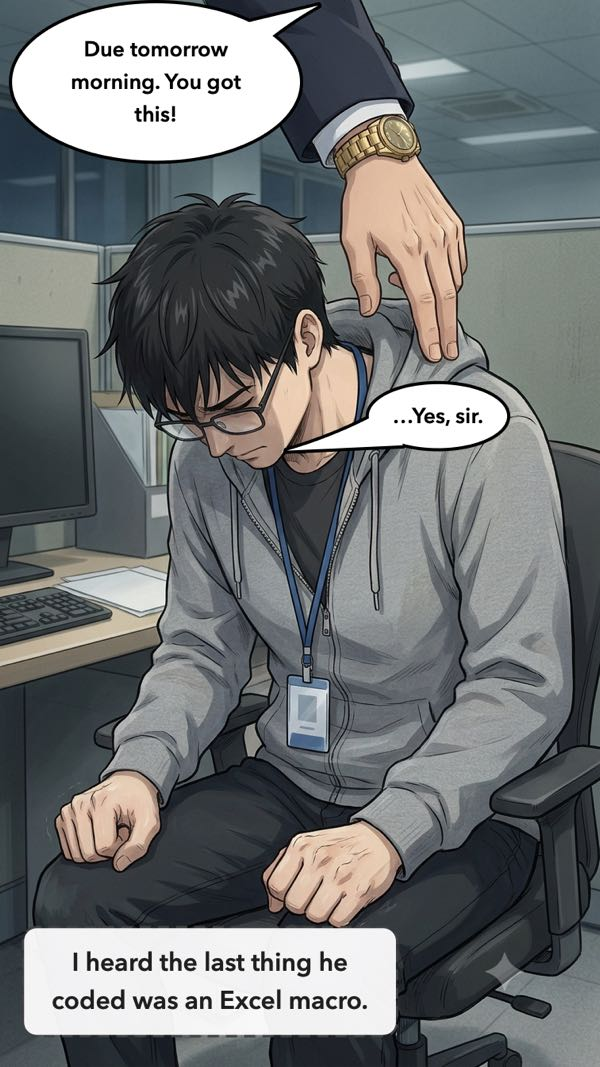
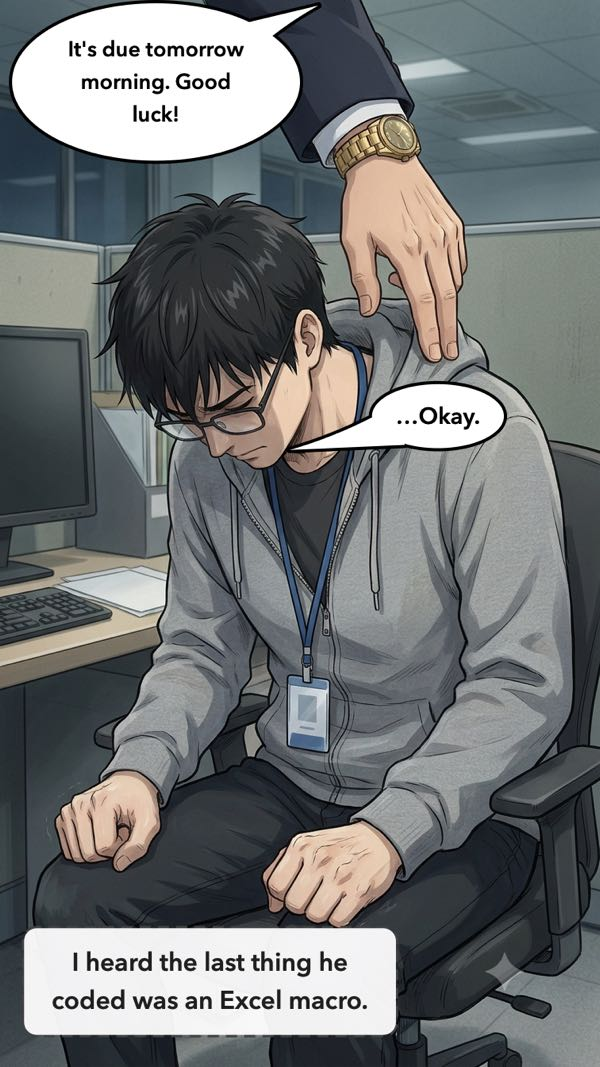
데모 만화 영어판: 컷 04-3 대사

diff --git a/demo/en/scroll.html b/demo/en/scroll.html
@@ -1,4 +1,4 @@
 <!doctype html><html lang="en"><meta charset="utf-8"><title>Developer Isekai, Episode 1 (Demo)</title><meta name="viewport" content="width=device-width,initial-scale=1"><meta name="robots" content="noindex">
 <style>body{margin:0;background:#0b0c10;color:#eee;font-family:-apple-system,system-ui,sans-serif}
 a{color:#8ab4ff}.wrap{max-width:756px;margin:0 auto}img{display:block;width:100%;height:auto}
-.top{padding:14px 16px;font-size:14px;line-height:1.5}.top b{font-size:16px}.langs{margin-bottom:8px}</style><body><div class="wrap"><div class="top"><nav class="langs"><a href="../ja/scroll.html">日本語</a> · <b>English</b> · <a href="../de/scroll.html">Deutsch</a> · <a href="../ko/scroll.html">한국어</a></nav><b>Developer Isekai, Episode 1 (Demo)</b><br>A demo for trying Hearbook’s web comic translation. Story by Hearbook; art made with AI.<br><a href="paged.html">Page-by-page demo (Space Cat Patrol)</a></div><img src="isekai/cut01.jpg?v=5" width="600" height="1067" alt="Developer Isekai, Episode 1 (Demo) 1"><img src="isekai/cut02.jpg?v=5" width="600" height="1067" alt="Developer Isekai, Episode 1 (Demo) 2"><img src="isekai/cut03.jpg?v=5" width="600" height="1067" alt="Developer Isekai, Episode 1 (Demo) 3"><img src="isekai/cut03-1.jpg?v=5" width="600" height="1067" alt="Developer Isekai, Episode 1 (Demo) 4"><img src="isekai/cut03-2.jpg?v=5" width="600" height="476" alt="Developer Isekai, Episode 1 (Demo) 5"><img src="isekai/cut04.jpg?v=5" width="600" height="1067" alt="Developer Isekai, Episode 1 (Demo) 6"><img src="isekai/cut04-1.jpg?v=5" width="600" height="1067" alt="Developer Isekai, Episode 1 (Demo) 7"><img src="isekai/cut04-2.jpg?v=5" width="600" height="1067" alt="Developer Isekai, Episode 1 (Demo) 8"><img src="isekai/cut04-3.jpg?v=5" width="600" height="1067" alt="Developer Isekai, Episode 1 (Demo) 9"><img src="isekai/cut05.jpg?v=5" width="600" height="476" alt="Developer Isekai, Episode 1 (Demo) 10"><img src="isekai/cut06.jpg?v=5" width="600" height="1067" alt="Developer Isekai, Episode 1 (Demo) 11"><img src="isekai/cut07.jpg?v=5" width="600" height="294" alt="Developer Isekai, Episode 1 (Demo) 12" style="margin-bottom:220px"><img src="isekai/cut08.jpg?v=5" width="600" height="1067" alt="Developer Isekai, Episode 1 (Demo) 13"><img src="isekai/cut09.jpg?v=5" width="600" height="1067" alt="Developer Isekai, Episode 1 (Demo) 14"><img src="isekai/cut10.jpg?v=5" width="600" height="1067" alt="Developer Isekai, Episode 1 (Demo) 15"><img src="isekai/cut11.jpg?v=5" width="600" height="1067" alt="Developer Isekai, Episode 1 (Demo) 16"><img src="isekai/cut12.jpg?v=5" width="600" height="294" alt="Developer Isekai, Episode 1 (Demo) 17" style="margin-bottom:220px"><img src="isekai/cut13.jpg?v=5" width="600" height="1067" alt="Developer Isekai, Episode 1 (Demo) 18"><img src="isekai/cut14.jpg?v=5" width="600" height="1067" alt="Developer Isekai, Episode 1 (Demo) 19"><img src="isekai/cut15.jpg?v=5" width="600" height="1067" alt="Developer Isekai, Episode 1 (Demo) 20"><img src="isekai/cut16.jpg?v=5" width="600" height="1067" alt="Developer Isekai, Episode 1 (Demo) 21"><img src="isekai/cut17.jpg?v=5" width="600" height="1067" alt="Developer Isekai, Episode 1 (Demo) 22"><img src="isekai/cut18.jpg?v=5" width="600" height="1067" alt="Developer Isekai, Episode 1 (Demo) 23"><img src="isekai/cut19.jpg?v=5" width="600" height="1067" alt="Developer Isekai, Episode 1 (Demo) 24"><img src="isekai/cut20.jpg?v=5" width="600" height="1067" alt="Developer Isekai, Episode 1 (Demo) 25"><img src="isekai/cut21.jpg?v=5" width="600" height="1067" alt="Developer Isekai, Episode 1 (Demo) 26"><img src="isekai/cut22.jpg?v=5" width="600" height="294" alt="Developer Isekai, Episode 1 (Demo) 27"><img src="isekai/cut23.jpg?v=5" width="600" height="1067" alt="Developer Isekai, Episode 1 (Demo) 28"><img src="isekai/cut24.jpg?v=5" width="600" height="1067" alt="Developer Isekai, Episode 1 (Demo) 29"><img src="isekai/cut25.jpg?v=5" width="600" height="841" alt="Developer Isekai, Episode 1 (Demo) 30"><img src="isekai/cut26.jpg?v=5" width="600" height="1067" alt="Developer Isekai, Episode 1 (Demo) 31"><img src="isekai/cut27.jpg?v=5" width="600" height="1067" alt="Developer Isekai, Episode 1 (Demo) 32"><img src="isekai/cut28.jpg?v=5" width="600" height="1067" alt="Developer Isekai, Episode 1 (Demo) 33"><img src="isekai/cut29.jpg?v=5" width="600" height="1067" alt="Developer Isekai, Episode 1 (Demo) 34"><img src="isekai/cut30.jpg?v=5" width="600" height="1067" alt="Developer Isekai, Episode 1 (Demo) 35"><img src="isekai/cut31.jpg?v=5" width="600" height="1067" alt="Developer Isekai, Episode 1 (Demo) 36"><img src="isekai/cut32.jpg?v=5" width="600" height="1067" alt="Developer Isekai, Episode 1 (Demo) 37"><img src="isekai/cut33.jpg?v=5" width="600" height="1067" alt="Developer Isekai, Episode 1 (Demo) 38"><img src="isekai/cut34.jpg?v=5" width="600" height="1067" alt="Developer Isekai, Episode 1 (Demo) 39"><img src="isekai/cut35.jpg?v=5" width="600" height="1067" alt="Developer Isekai, Episode 1 (Demo) 40"><img src="isekai/cut36.jpg?v=5" width="600" height="476" alt="Developer Isekai, Episode 1 (Demo) 41"><img src="isekai/cut37.jpg?v=5" width="600" height="1067" alt="Developer Isekai, Episode 1 (Demo) 42"><img src="isekai/cut38.jpg?v=5" width="600" height="294" alt="Developer Isekai, Episode 1 (Demo) 43" style="margin-bottom:220px"><img src="isekai/cut39.jpg?v=5" width="600" height="1067" alt="Developer Isekai, Episode 1 (Demo) 44"><img src="isekai/cut40.jpg?v=5" width="600" height="294" alt="Developer Isekai, Episode 1 (Demo) 45"><img src="isekai/cut41.jpg?v=5" width="600" height="1067" alt="Developer Isekai, Episode 1 (Demo) 46"><img src="isekai/cut42.jpg?v=5" width="600" height="294" alt="Developer Isekai, Episode 1 (Demo) 47"><img src="isekai/cut43.jpg?v=5" width="600" height="1067" alt="Developer Isekai, Episode 1 (Demo) 48"><img src="isekai/cut44.jpg?v=5" width="600" height="1067" alt="Developer Isekai, Episode 1 (Demo) 49"><img src="isekai/cut45.jpg?v=5" width="600" height="1067" alt="Developer Isekai, Episode 1 (Demo) 50"><img src="isekai/cut46.jpg?v=5" width="600" height="294" alt="Developer Isekai, Episode 1 (Demo) 51"><img src="isekai/cut47.jpg?v=5" width="600" height="1067" alt="Developer Isekai, Episode 1 (Demo) 52" style="margin-bottom:220px"><img src="isekai/cut48.jpg?v=5" width="600" height="1067" alt="Developer Isekai, Episode 1 (Demo) 53"><img src="isekai/cut49.jpg?v=5" width="600" height="1067" alt="Developer Isekai, Episode 1 (Demo) 54"><img src="isekai/cut50.jpg?v=5" width="600" height="294" alt="Developer Isekai, Episode 1 (Demo) 55"><img src="isekai/cut51.jpg?v=5" width="600" height="1067" alt="Developer Isekai, Episode 1 (Demo) 56"><img src="isekai/cut52.jpg?v=5" width="600" height="1067" alt="Developer Isekai, Episode 1 (Demo) 57"><img src="isekai/cut53.jpg?v=5" width="600" height="1067" alt="Developer Isekai, Episode 1 (Demo) 58"><img src="isekai/cut54.jpg?v=5" width="600" height="1067" alt="Developer Isekai, Episode 1 (Demo) 59"><img src="isekai/cut55.jpg?v=5" width="600" height="294" alt="Developer Isekai, Episode 1 (Demo) 60"><img src="isekai/cut55-1.jpg?v=5" width="600" height="294" alt="Developer Isekai, Episode 1 (Demo) 61"><img src="isekai/cut56.jpg?v=5" width="600" height="1067" alt="Developer Isekai, Episode 1 (Demo) 62" style="margin-bottom:220px"></div></body></html>
+.top{padding:14px 16px;font-size:14px;line-height:1.5}.top b{font-size:16px}.langs{margin-bottom:8px}</style><body><div class="wrap"><div class="top"><nav class="langs"><a href="../ja/scroll.html">日本語</a> · <b>English</b> · <a href="../de/scroll.html">Deutsch</a> · <a href="../ko/scroll.html">한국어</a></nav><b>Developer Isekai, Episode 1 (Demo)</b><br>A demo for trying Hearbook’s web comic translation. Story by Hearbook; art made with AI.<br><a href="paged.html">Page-by-page demo (Space Cat Patrol)</a></div><img src="isekai/cut01.jpg?v=5" width="600" height="1067" alt="Developer Isekai, Episode 1 (Demo) 1"><img src="isekai/cut02.jpg?v=5" width="600" height="1067" alt="Developer Isekai, Episode 1 (Demo) 2"><img src="isekai/cut03.jpg?v=5" width="600" height="1067" alt="Developer Isekai, Episode 1 (Demo) 3"><img src="isekai/cut03-1.jpg?v=5" width="600" height="1067" alt="Developer Isekai, Episode 1 (Demo) 4"><img src="isekai/cut03-2.jpg?v=5" width="600" height="476" alt="Developer Isekai, Episode 1 (Demo) 5"><img src="isekai/cut04.jpg?v=5" width="600" height="1067" alt="Developer Isekai, Episode 1 (Demo) 6"><img src="isekai/cut04-1.jpg?v=5" width="600" height="1067" alt="Developer Isekai, Episode 1 (Demo) 7"><img src="isekai/cut04-2.jpg?v=5" width="600" height="1067" alt="Developer Isekai, Episode 1 (Demo) 8"><img src="isekai/cut04-3.jpg?v=6" width="600" height="1067" alt="Developer Isekai, Episode 1 (Demo) 9"><img src="isekai/cut05.jpg?v=5" width="600" height="476" alt="Developer Isekai, Episode 1 (Demo) 10"><img src="isekai/cut06.jpg?v=5" width="600" height="1067" alt="Developer Isekai, Episode 1 (Demo) 11"><img src="isekai/cut07.jpg?v=5" width="600" height="294" alt="Developer Isekai, Episode 1 (Demo) 12" style="margin-bottom:220px"><img src="isekai/cut08.jpg?v=5" width="600" height="1067" alt="Developer Isekai, Episode 1 (Demo) 13"><img src="isekai/cut09.jpg?v=5" width="600" height="1067" alt="Developer Isekai, Episode 1 (Demo) 14"><img src="isekai/cut10.jpg?v=5" width="600" height="1067" alt="Developer Isekai, Episode 1 (Demo) 15"><img src="isekai/cut11.jpg?v=5" width="600" height="1067" alt="Developer Isekai, Episode 1 (Demo) 16"><img src="isekai/cut12.jpg?v=5" width="600" height="294" alt="Developer Isekai, Episode 1 (Demo) 17" style="margin-bottom:220px"><img src="isekai/cut13.jpg?v=5" width="600" height="1067" alt="Developer Isekai, Episode 1 (Demo) 18"><img src="isekai/cut14.jpg?v=5" width="600" height="1067" alt="Developer Isekai, Episode 1 (Demo) 19"><img src="isekai/cut15.jpg?v=5" width="600" height="1067" alt="Developer Isekai, Episode 1 (Demo) 20"><img src="isekai/cut16.jpg?v=5" width="600" height="1067" alt="Developer Isekai, Episode 1 (Demo) 21"><img src="isekai/cut17.jpg?v=5" width="600" height="1067" alt="Developer Isekai, Episode 1 (Demo) 22"><img src="isekai/cut18.jpg?v=5" width="600" height="1067" alt="Developer Isekai, Episode 1 (Demo) 23"><img src="isekai/cut19.jpg?v=5" width="600" height="1067" alt="Developer Isekai, Episode 1 (Demo) 24"><img src="isekai/cut20.jpg?v=5" width="600" height="1067" alt="Developer Isekai, Episode 1 (Demo) 25"><img src="isekai/cut21.jpg?v=5" width="600" height="1067" alt="Developer Isekai, Episode 1 (Demo) 26"><img src="isekai/cut22.jpg?v=5" width="600" height="294" alt="Developer Isekai, Episode 1 (Demo) 27"><img src="isekai/cut23.jpg?v=5" width="600" height="1067" alt="Developer Isekai, Episode 1 (Demo) 28"><img src="isekai/cut24.jpg?v=5" width="600" height="1067" alt="Developer Isekai, Episode 1 (Demo) 29"><img src="isekai/cut25.jpg?v=5" width="600" height="841" alt="Developer Isekai, Episode 1 (Demo) 30"><img src="isekai/cut26.jpg?v=5" width="600" height="1067" alt="Developer Isekai, Episode 1 (Demo) 31"><img src="isekai/cut27.jpg?v=5" width="600" height="1067" alt="Developer Isekai, Episode 1 (Demo) 32"><img src="isekai/cut28.jpg?v=5" width="600" height="1067" alt="Developer Isekai, Episode 1 (Demo) 33"><img src="isekai/cut29.jpg?v=5" width="600" height="1067" alt="Developer Isekai, Episode 1 (Demo) 34"><img src="isekai/cut30.jpg?v=5" width="600" height="1067" alt="Developer Isekai, Episode 1 (Demo) 35"><img src="isekai/cut31.jpg?v=5" width="600" height="1067" alt="Developer Isekai, Episode 1 (Demo) 36"><img src="isekai/cut32.jpg?v=5" width="600" height="1067" alt="Developer Isekai, Episode 1 (Demo) 37"><img src="isekai/cut33.jpg?v=5" width="600" height="1067" alt="Developer Isekai, Episode 1 (Demo) 38"><img src="isekai/cut34.jpg?v=5" width="600" height="1067" alt="Developer Isekai, Episode 1 (Demo) 39"><img src="isekai/cut35.jpg?v=5" width="600" height="1067" alt="Developer Isekai, Episode 1 (Demo) 40"><img src="isekai/cut36.jpg?v=5" width="600" height="476" alt="Developer Isekai, Episode 1 (Demo) 41"><img src="isekai/cut37.jpg?v=5" width="600" height="1067" alt="Developer Isekai, Episode 1 (Demo) 42"><img src="isekai/cut38.jpg?v=5" width="600" height="294" alt="Developer Isekai, Episode 1 (Demo) 43" style="margin-bottom:220px"><img src="isekai/cut39.jpg?v=5" width="600" height="1067" alt="Developer Isekai, Episode 1 (Demo) 44"><img src="isekai/cut40.jpg?v=5" width="600" height="294" alt="Developer Isekai, Episode 1 (Demo) 45"><img src="isekai/cut41.jpg?v=5" width="600" height="1067" alt="Developer Isekai, Episode 1 (Demo) 46"><img src="isekai/cut42.jpg?v=5" width="600" height="294" alt="Developer Isekai, Episode 1 (Demo) 47"><img src="isekai/cut43.jpg?v=5" width="600" height="1067" alt="Developer Isekai, Episode 1 (Demo) 48"><img src="isekai/cut44.jpg?v=5" width="600" height="1067" alt="Developer Isekai, Episode 1 (Demo) 49"><img src="isekai/cut45.jpg?v=5" width="600" height="1067" alt="Developer Isekai, Episode 1 (Demo) 50"><img src="isekai/cut46.jpg?v=5" width="600" height="294" alt="Developer Isekai, Episode 1 (Demo) 51"><img src="isekai/cut47.jpg?v=5" width="600" height="1067" alt="Developer Isekai, Episode 1 (Demo) 52" style="margin-bottom:220px"><img src="isekai/cut48.jpg?v=5" width="600" height="1067" alt="Developer Isekai, Episode 1 (Demo) 53"><img src="isekai/cut49.jpg?v=5" width="600" height="1067" alt="Developer Isekai, Episode 1 (Demo) 54"><img src="isekai/cut50.jpg?v=5" width="600" height="294" alt="Developer Isekai, Episode 1 (Demo) 55"><img src="isekai/cut51.jpg?v=5" width="600" height="1067" alt="Developer Isekai, Episode 1 (Demo) 56"><img src="isekai/cut52.jpg?v=5" width="600" height="1067" alt="Developer Isekai, Episode 1 (Demo) 57"><img src="isekai/cut53.jpg?v=5" width="600" height="1067" alt="Developer Isekai, Episode 1 (Demo) 58"><img src="isekai/cut54.jpg?v=5" width="600" height="1067" alt="Developer Isekai, Episode 1 (Demo) 59"><img src="isekai/cut55.jpg?v=5" width="600" height="294" alt="Developer Isekai, Episode 1 (Demo) 60"><img src="isekai/cut55-1.jpg?v=5" width="600" height="294" alt="Developer Isekai, Episode 1 (Demo) 61"><img src="isekai/cut56.jpg?v=5" width="600" height="1067" alt="Developer Isekai, Episode 1 (Demo) 62" style="margin-bottom:220px"></div></body></html>
